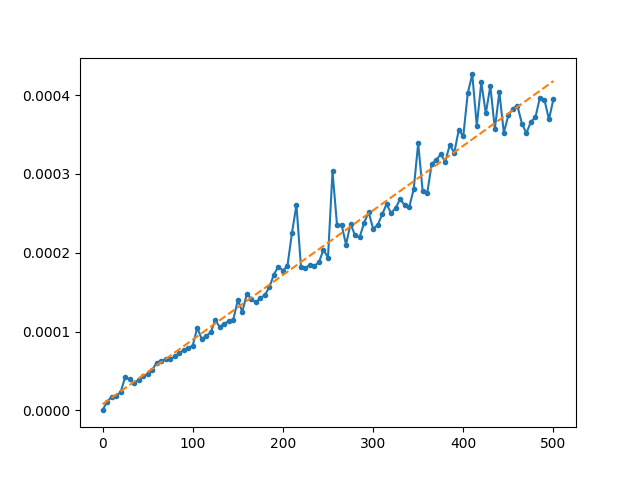
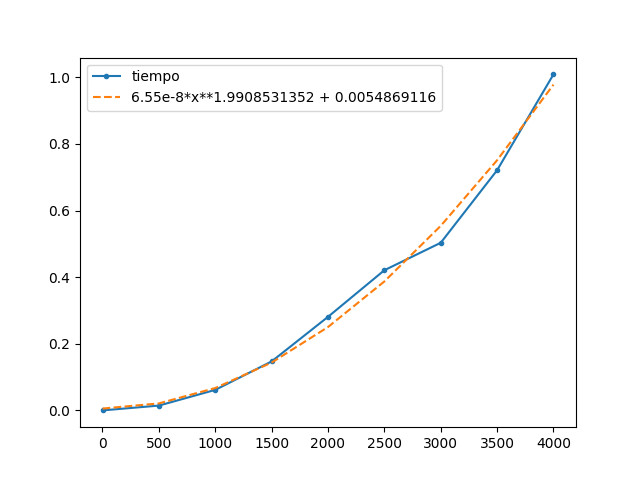
Función exponencial añadida

diff --git a/juez/evaluador.py b/juez/evaluador.py
@@ -6,11 +6,12 @@ import random
 import matplotlib.pyplot as plt
 import numpy as np
 import scipy
+import sympy
 
 sufijo_entrada = "entrada.txt"
 sufijo_salida = "salida.txt"
-# carpeta_problemas = "problemas"
-carpeta_problemas = "C:\\Users\\laura\\PycharmProjects\\TFG\\problemas"
+carpeta_problemas = "problemas"
+# carpeta_problemas = "C:\\Users\\laura\\PycharmProjects\\TFG\\problemas"
 
 
 # Inspeccionar el contenido de la carpeta "problemas" y devolver una lista con los nombres de las subcarpetas
@@ -58,29 +59,29 @@ def lee_problema(id):
 # Devuelve una entrada aleatoria del tipo indicado y de tamaño n
 def entrada_aleatoria(tipo, n):
     if tipo == 'str':  # string de letras minúsculas - ¿Añado mayúsculas?
-        return '"' + ''.join(random.choice(string.ascii_lowercase) for _ in range(n)) + '"'
+        return ''.join(random.choice(string.ascii_lowercase) for _ in range(n))
     elif tipo == 'int':
-        return str(random.randint(10 ** (n - 1), (10 ** n) - 1))
+        return random.randint(10 ** (n - 1), (10 ** n) - 1)
     elif tipo.startswith('list'):
         resultado = []
         if tipo.removeprefix('list ').startswith('str'):
             for _ in range(n):  # str de 10 letras minúsculas
-                resultado.append('"' + ''.join(random.choice(string.ascii_lowercase) for _ in range(10)) + '"')
+                resultado.append(''.join(random.choice(string.ascii_lowercase) for _ in range(10)))
         elif tipo.removeprefix('list ').startswith('int'):
             for _ in range(n):  # int entre 0 y 100
-                resultado.append(str(random.randint(0, 100)))
+                resultado.append(random.randint(0, 100))
         if tipo.endswith('sorted'):
             resultado.sort()
-        return '[' + ', '.join(resultado) + ']'
+        return resultado
     elif tipo.startswith('tuple'):
         resultado = []
         if tipo.removeprefix('tuple ').startswith('str'):
             for _ in range(n):  # str de 10 letras minúsculas
-                resultado.append('"' + ''.join(random.choice(string.ascii_lowercase) for _ in range(10)) + '"')
+                resultado.append(''.join(random.choice(string.ascii_lowercase) for _ in range(10)))
         elif tipo.removeprefix('tuple ').startswith('int'):
             for _ in range(n):  # int entre 0 y 100
-                resultado.append(str(random.randint(0, 100)))
-        return '(' + ', '.join(resultado) + ')'
+                resultado.append(random.randint(0, 100))
+        return tuple(resultado)
     return ''
 
 
@@ -89,32 +90,45 @@ def tiempo_complejidad(dic_problema, fichero, tams_entrada):
     # leo la función
     with open(fichero, 'r') as fichero:
         exec(fichero.read())
-    funcion = dic_problema['funcion']
+    funcion = eval(dic_problema['funcion'])
     aumentar = int(dic_problema['aumentar'])
     tipo_entrada = dic_problema['tipo_param']
 
-    tams = [0]  # ¿debería inicializar con el tamaño de entrada de la prueba?
-    tiempos = [0.]  # ¿debería calcular el tiempo con tamaño 0 o inicializar con el tiempo de la prueba?
+    # inicializo tamaños y tiempos
+    tams = [1]
+    if aumentar != 0:
+        tams_entrada[aumentar - 1] = tams[-1]
+    tiempos = []
+    aum = 1
+    stop = False
 
-    while tiempos[-1] < 0.1 and tams[-1] < 500:  # ¿Cuándo paro?
-        print('sigo', tams[-1], tiempos[-1])
-        # aumento tamaño del parametro que toca - ¿siempre es el mismo aumento?
-        if aumentar != 0:
-            tams_entrada[aumentar - 1] = tams[-1] + 5
+    # evalúo la función con tamaños cada vez mayores y guardo el tiempo
+    while tiempos == [] or (tiempos[-1] < 1 and not stop):
+        if tiempos:
+            print('sigo', tams[-1], tiempos[-1])
+        # aumento tamaño del parámetro que toca
+        if len(tiempos) >= 2 and abs(tiempos[-1] - tiempos[-2]) < 1e-4:
+            aum *= 10
+            print(aum)
+            if len(tiempos) >= 4 and abs(tiempos[-1] - tiempos[-3]) < 1e-5 and abs(tiempos[-1] - tiempos[-4]) < 1e-5:
+                stop = True
+
+        if aumentar != 0 and tiempos != []:
+            tams_entrada[aumentar - 1] = tams[-1] + 500 * aum
             tams.append(tams_entrada[aumentar - 1])
-        # evaluo 10 veces con ese tamaño
+        # evalúo 10 veces con ese tamaño
         tiempo_pruebas = []
         for _ in range(10):
             # creo otra prueba aleatoria
             entrada = []
             for i in range(len(tipo_entrada)):
                 entrada.append(entrada_aleatoria(tipo_entrada[i], tams_entrada[i]))
-            # evaluo
-            entrada_str = ', '.join(entrada)
+            # evalúo y cuento el tiempo
             tiempoini = time.perf_counter()
-            eval(funcion + '(' + entrada_str + ')')
+            funcion(*entrada)
             tiempo_pruebas.append(time.perf_counter() - tiempoini)
 
+        # guardo el tiempo medio
         tiempos.append(sum(tiempo_pruebas) / 10)
 
     return tams, tiempos
@@ -137,15 +151,19 @@ def polinomial(x, a, b, c):
     return a + b * x ** c
 
 
-def linearlogaritmica(x, a):
-    return a * x * np.log1p(x)
+def linearlogaritmica(x, a, b):
+    return a + b * x * np.log2(x)
 
 
 def logaritmica(x, a, b):
-    return a + b * np.log1p(x)
+    return a + b * np.log2(x)
 
 
-funciones = (constante, lineal, cuadratica, polinomial, logaritmica, linearlogaritmica)
+def exponencial(x, a, b):
+    return a + b * 2 ** x
+
+
+funciones = (constante, lineal, cuadratica, polinomial, logaritmica, linearlogaritmica, exponencial)
 
 
 # Comprueba qué función de las familias de funciones es más próxima a los datos tamaño-tiempo que tenemos
@@ -156,23 +174,31 @@ def funcion_complejidad(x, y, funcs=funciones):
     for f in funcs:
         popt = scipy.optimize.curve_fit(f, x, y)[0]
         valores_opt.append(popt)
-        # print('popt ', popt)
         residuos.append(sum(abs(y - f(x, *popt))))
+    print('residuos: ', residuos)
     res_min = np.min(np.array(residuos))
-    print(residuos)
     pos_min = residuos.index(res_min)
     fun_min = funcs[pos_min]
     val_min = valores_opt[pos_min]
-    print('min', fun_min, val_min)
-    return fun_min, val_min, res_min
+    print('min: ', fun_min, val_min)
+    resultado_str = 'La función de complejidad es de orden ' + fun_min.__name__
+    if fun_min.__name__ == 'polinomial':
+        resultado_str += 'con exponente ' + str(round(val_min[-1], 3))
+    return fun_min, val_min, res_min, resultado_str
 
 
 # Pinta la gráfica de tamaño-tiempo junto con la función aproximada
 def pinta_grafica(tams, tiempos):
-    f, params, res = funcion_complejidad(tams, tiempos)
-    plt.plot(tams, tiempos, '.-')
+    f, params, resi, result = funcion_complejidad(tams, tiempos)
+    params_r = [float(format(_, '.10f')) for _ in params]
+    print(params_r)
+    plt.plot(tams, tiempos, '.-', label='tiempo')
     ftams = f(np.array(tams), *params)
-    plt.plot(tams, ftams, '--')
+    x = sympy.Symbol('x')
+    f_str = f(x, *params_r)
+    print(f_str)
+    plt.plot(tams, ftams, '--', label=f_str)
+    plt.legend()
     plt.savefig('grafica.png')
     plt.show()
 
@@ -189,9 +215,9 @@ def pinta_grafica(tams, tiempos):
 # Los ficheros xxxxxxx.salida.txt contienen la salida esperada en la primera línea
 def evalua_problema(id, fichero):
     dic_problema = lee_problema(id)
-    funcion = dic_problema['funcion']
     with open(fichero, 'r') as fich:
         exec(fich.read())
+    funcion = eval(dic_problema['funcion'])
     pruebas, resultados = [], []
     with scandir(os.path.join(carpeta_problemas, id)) as carpeta:
         for file in carpeta:
@@ -203,9 +229,9 @@ def evalua_problema(id, fichero):
             # Quitamos el argumento vacío que surge si hay una línea vacía al final
             if entrada[-1] == '' and len(entrada) > len(dic_problema['tipo_param']):
                 entrada = entrada[:-1]
-            entrada_str = ', '.join(entrada)
+            entrada = [eval(_) for _ in entrada]
             tiempoini = time.perf_counter()
-            salidareal = eval(funcion + '(' + entrada_str + ')')
+            salidareal = funcion(*entrada)
             tiempototal = time.perf_counter() - tiempoini
         with open(prueba[1], 'r') as s:
             salidaesperada = eval(s.read())
@@ -214,26 +240,44 @@ def evalua_problema(id, fichero):
             # calculo los tamaños de entrada - ¿solo lo necesito si algún valor se queda fijo?
             tams_entrada = []
             for i in range(len(entrada)):
-                print(entrada)
                 tipo = dic_problema['tipo_param'][i]
                 if tipo in ['str', 'int']:
-                    tams_entrada.append(len(entrada[i]))
+                    tams_entrada.append(len(str(entrada[i])))
                 elif tipo == 'float':
                     parte_entera, parte_decimal = entrada[i].split('.')
                     tams_entrada.append([len(parte_entera), len(parte_decimal)])
                 elif tipo.startswith('list') or tipo.startswith('tuple'):
-                    tams_entrada.append([len(eval(entrada[i])), len(str(eval(entrada[i])[0]))])
+                    tams_entrada.append(len(entrada[i]))  # ¿HAY QUE CAMBIARLO?
             # calculo el tiempo para entradas cada vez mayores - ¿y si aumentar == 0?
-            print(tams_entrada)
             tams, tiempos = tiempo_complejidad(dic_problema, fichero, tams_entrada)
             pinta_grafica(tams, tiempos)
         else:
-            resultados.append('(' + entrada_str + ')' + ', ' + str(salidaesperada) + ', ' + str(salidareal))
+            resultados.append('(' + ', '.join(entrada) + ')' + ', ' + str(salidaesperada) + ', ' + str(salidareal))
     return resultados
 
 
 # print(evalua_problema('alfabetica', 'C:\\Users\\laura\\PycharmProjects\\TFG\\otros\\solucion-alfabetica.py'))
 # print(evalua_problema('menorque', 'C:\\Users\\laura\\PycharmProjects\\TFG\\otros\\solucion-menorque.py'))
-# evalua_problema('ordenar', 'C:\\Users\\laura\\PycharmProjects\\TFG\\otros\\solucion-ordenar-sort.py')
-# evalua_problema('buscar', 'C:\\Users\\laura\\PycharmProjects\\TFG\\otros\\solucion-buscar-unoauno-inefi.py')
-# evalua_problema('palindromo', 'C:\\Users\\laura\\PycharmProjects\\TFG\\otros\\solucion-palindromo-inefi.py')
+
+
+# base = 'C:\\Users\\laura\\PycharmProjects\\TFG\\otros'
+# base = 'otros'
+
+# EJEMPLOS PALÍNDROMO
+# evalua_problema('palindromo', os.path.join(base, 'solucion-palindromo-efi.py'))
+# evalua_problema('palindromo', os.path.join(base, 'solucion-palindromo-inefi.py'))
+
+
+# EJEMPLOS ORDENAR
+# evalua_problema('ordenar', os.path.join(base, 'solucion-ordenar-burbuja.py'))
+# evalua_problema('ordenar', os.path.join(base, 'solucion-ordenar-insercion.py'))
+# evalua_problema('ordenar', os.path.join(base, 'solucion-ordenar-seleccion.py'))
+# evalua_problema('ordenar', os.path.join(base, 'solucion-ordenar-sort.py')) # no para
+
+# EJEMPLOS BUSCAR
+# evalua_problema('buscar', os.path.join(base, 'solucion-buscar-binaria.py'))
+# evalua_problema('buscar', os.path.join(base, 'solucion-buscar-unoauno.py')) # no para
+# evalua_problema('buscar', os.path.join(base, 'solucion-buscar-unoauno-inefi.py')) # no para
+# evalua_problema('buscar', os.path.join(base, 'solucion-buscar-in.py'))  # no para
+
+# evalua_problema('potencias2', os.path.join(base, 'solucion-potencias2-inefi.py'))

diff --git a/otros/solucion-potencias2-inefi.py b/otros/solucion-potencias2-inefi.py
@@ -1,0 +1,2 @@
+def potencias2(n):
+    return 2**(n-1) + 2**(n-1)

diff --git a/otros/solucion-potencias2-efi.py b/otros/solucion-potencias2-efi.py
@@ -1,0 +1,2 @@
+def potencias2(n):
+    return 2 ** n
